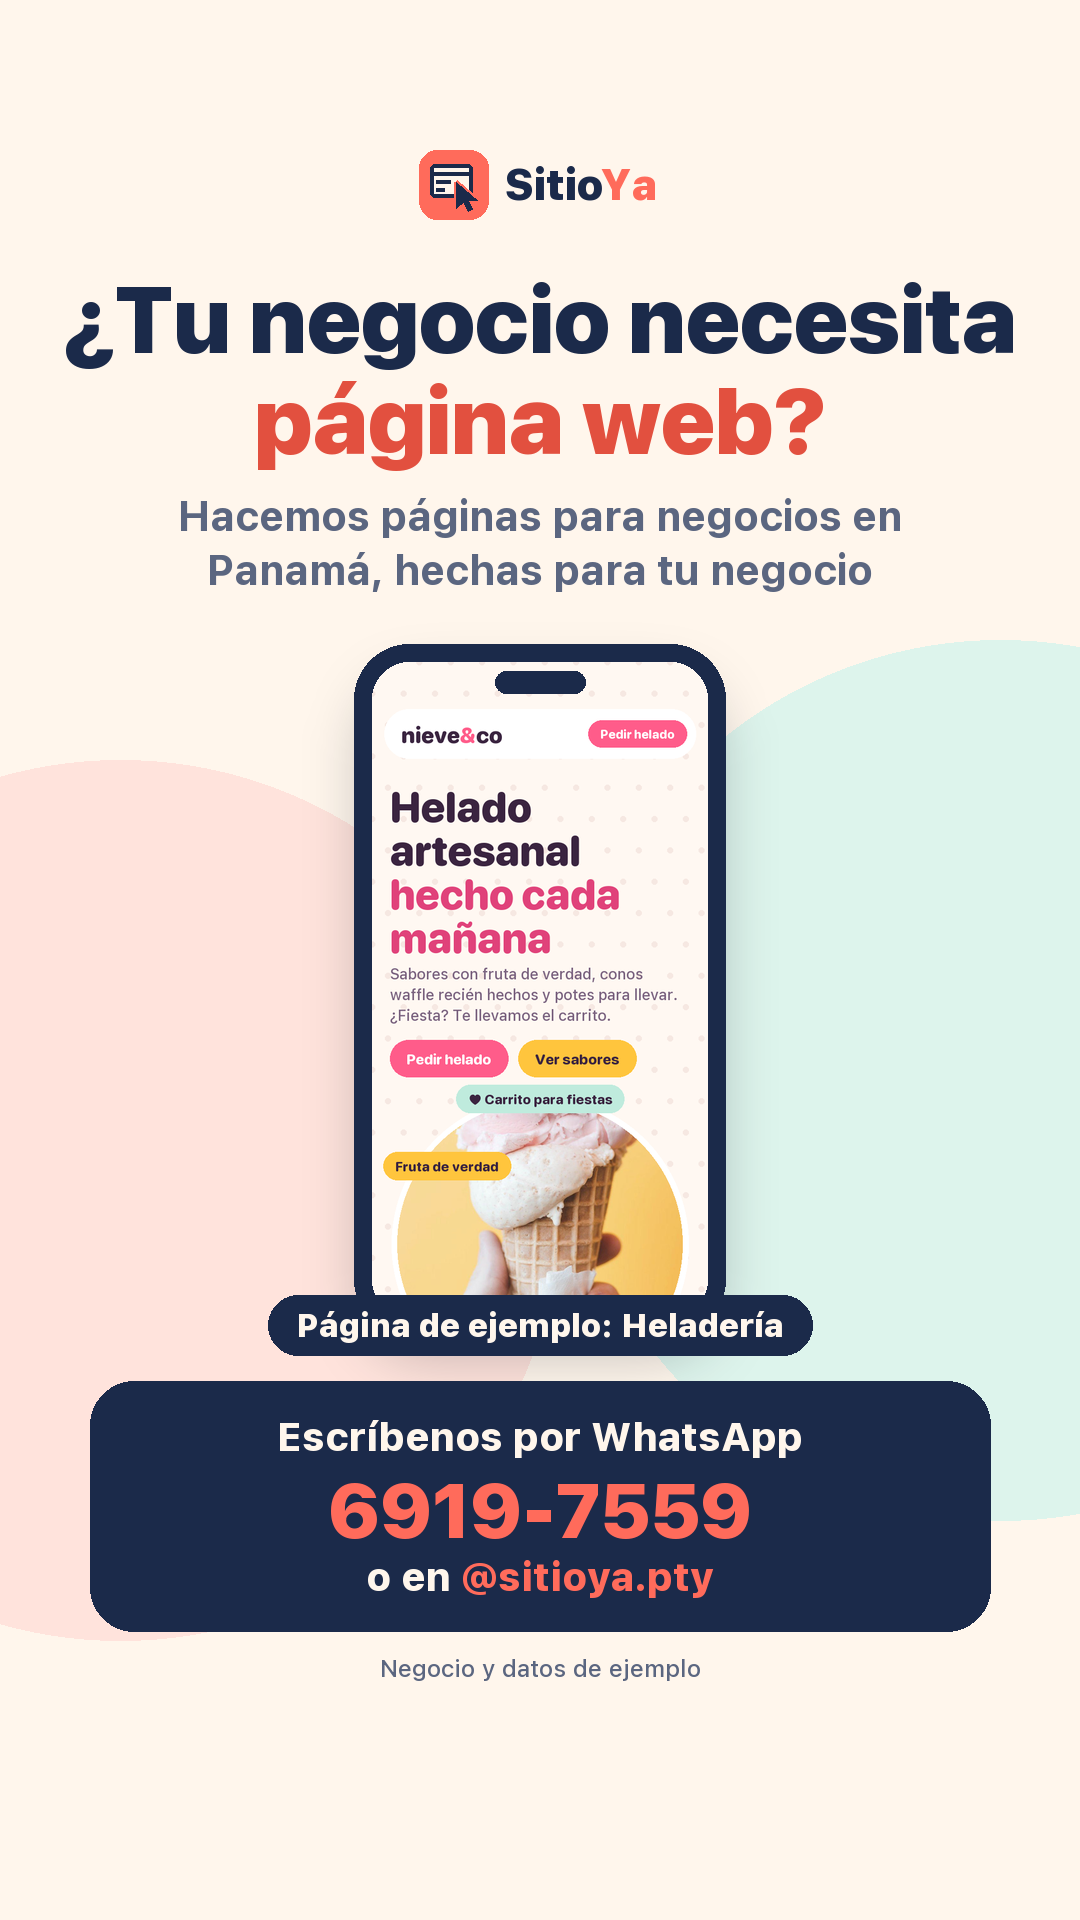
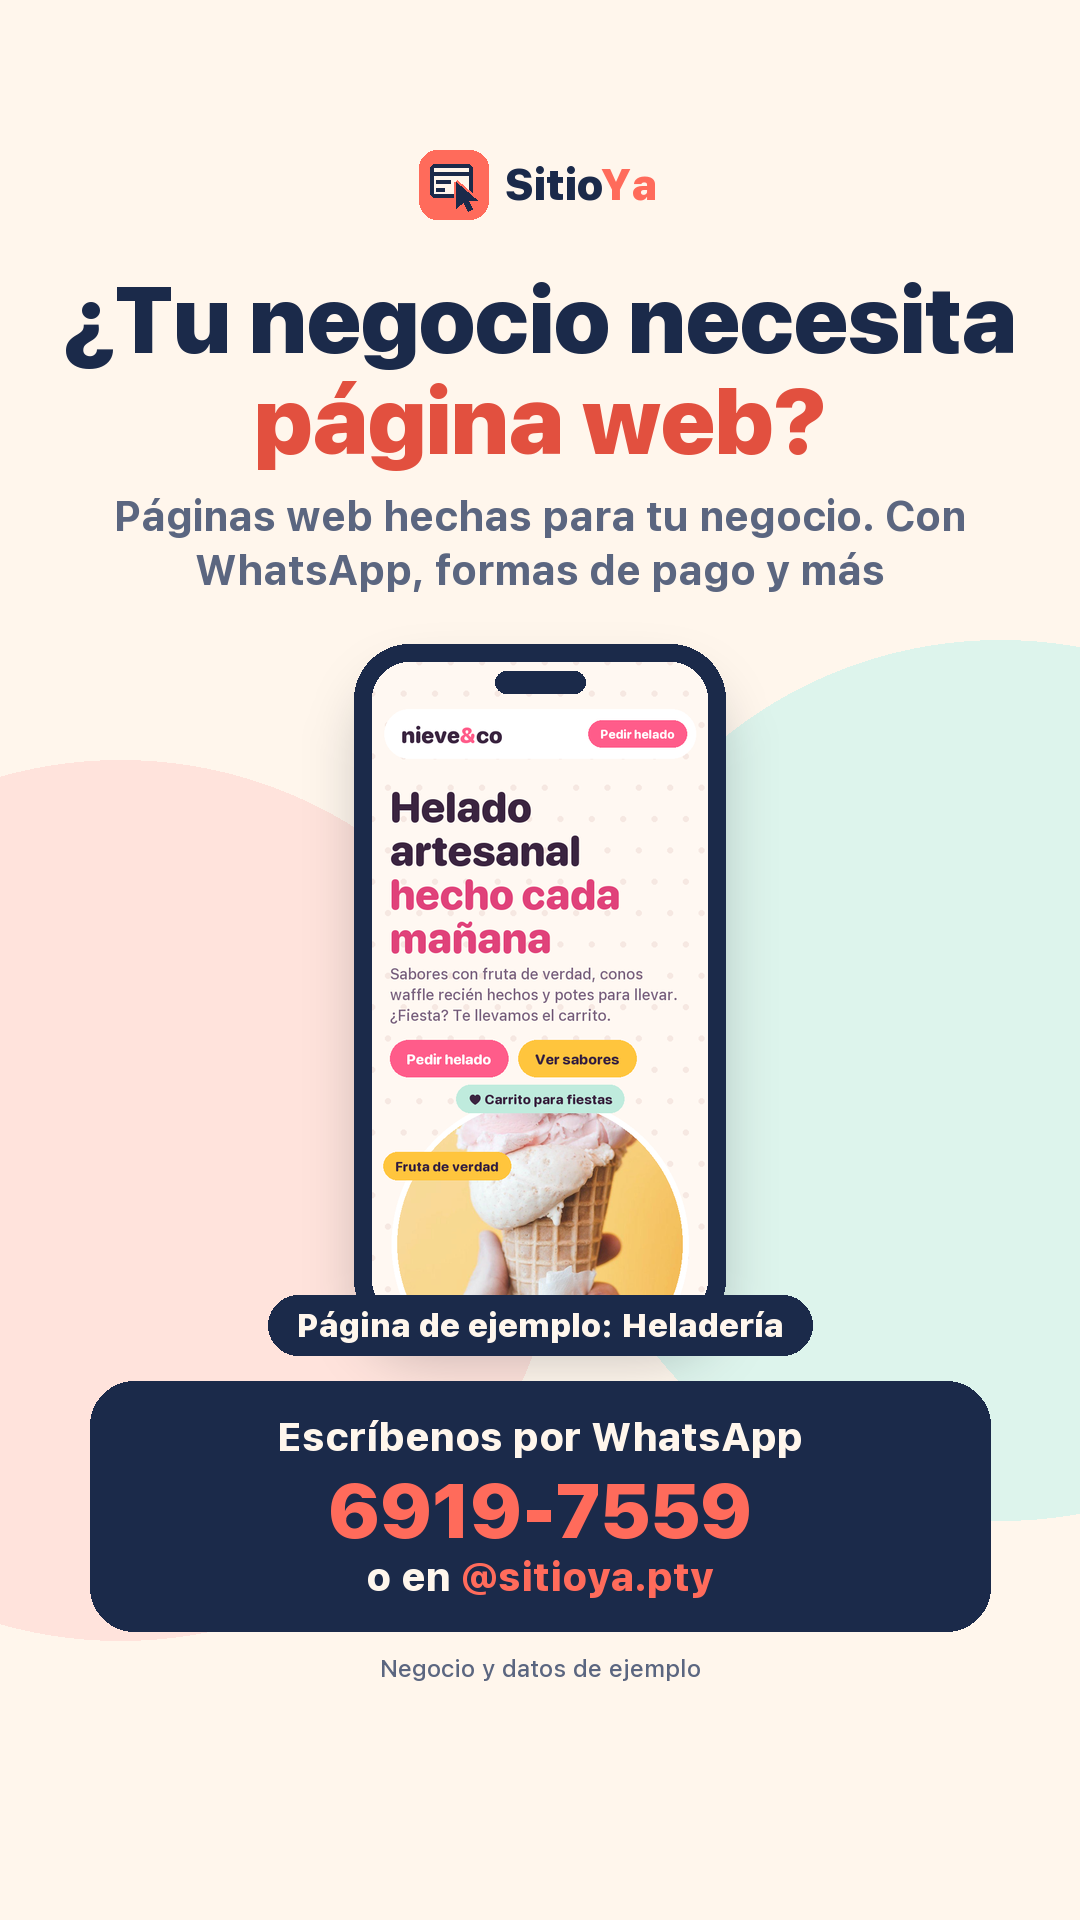
[Claude] Arte promo: subtítulo sin repetir ('Páginas web hechas para tu negocio. Con WhatsApp, formas de pago y más')
Claude-Session: https://claude.ai/code/session_01HjM58LyjDP46JMonKLDErg

Changed region(s): [[0.0917, 0.25, 0.8861, 0.3125]]

diff --git a/tools/redes_promo.py b/tools/redes_promo.py
@@ -18,7 +18,7 @@ SALIDA = os.path.join(RAIZ, 'redes', 'promo')
 os.makedirs(SALIDA, exist_ok=True)
 
 TITULO = ('¿Tu negocio necesita', 'página web?')
-SUBTITULO = 'Hacemos páginas para negocios en Panamá, hechas para tu negocio'
+SUBTITULO = 'Páginas web hechas para tu negocio. Con WhatsApp, formas de pago y más'
 TELEFONO = '6919-7559'
 USUARIO = '@sitioya.pty'
 NOTA = 'Negocio y datos de ejemplo'
